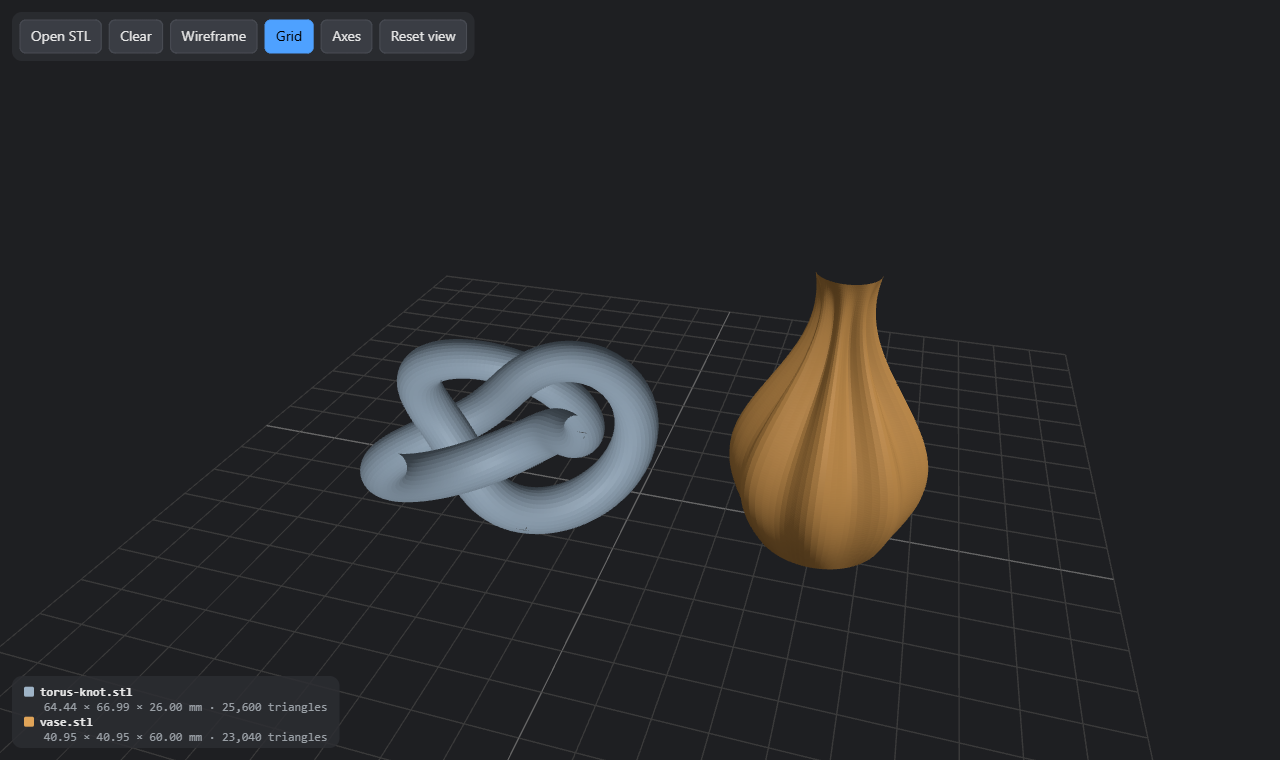
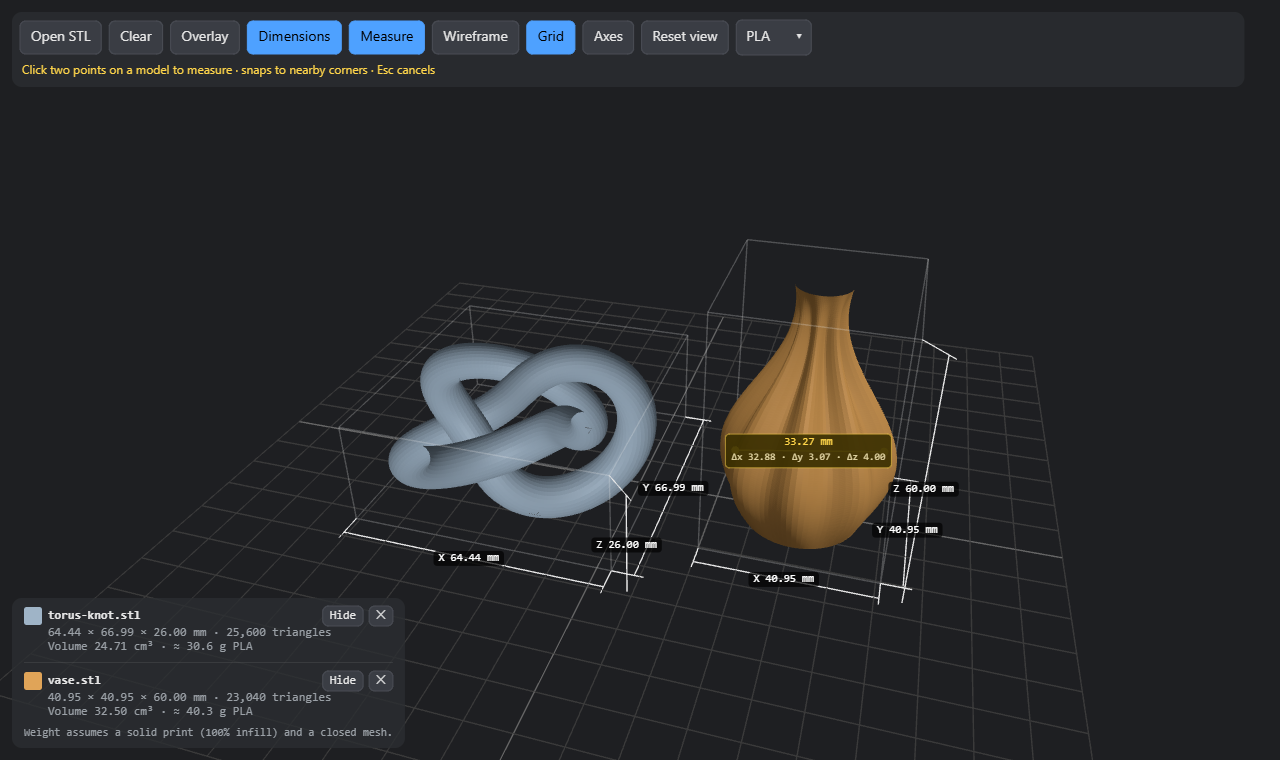
Update screenshot: dimensions, measure tool and model panel

diff --git a/README.md b/README.md
@@ -2,7 +2,7 @@
 
 A simple STL viewer in a single HTML file, built with [three.js](https://threejs.org/).
 
-![Two models side by side in the STL viewer](docs/screenshot.png)
+![Two models side by side with dimensions and a measurement](docs/screenshot.png)
 
 **Use it online:** https://gasille.github.io/simple-stl-viewer/
 
